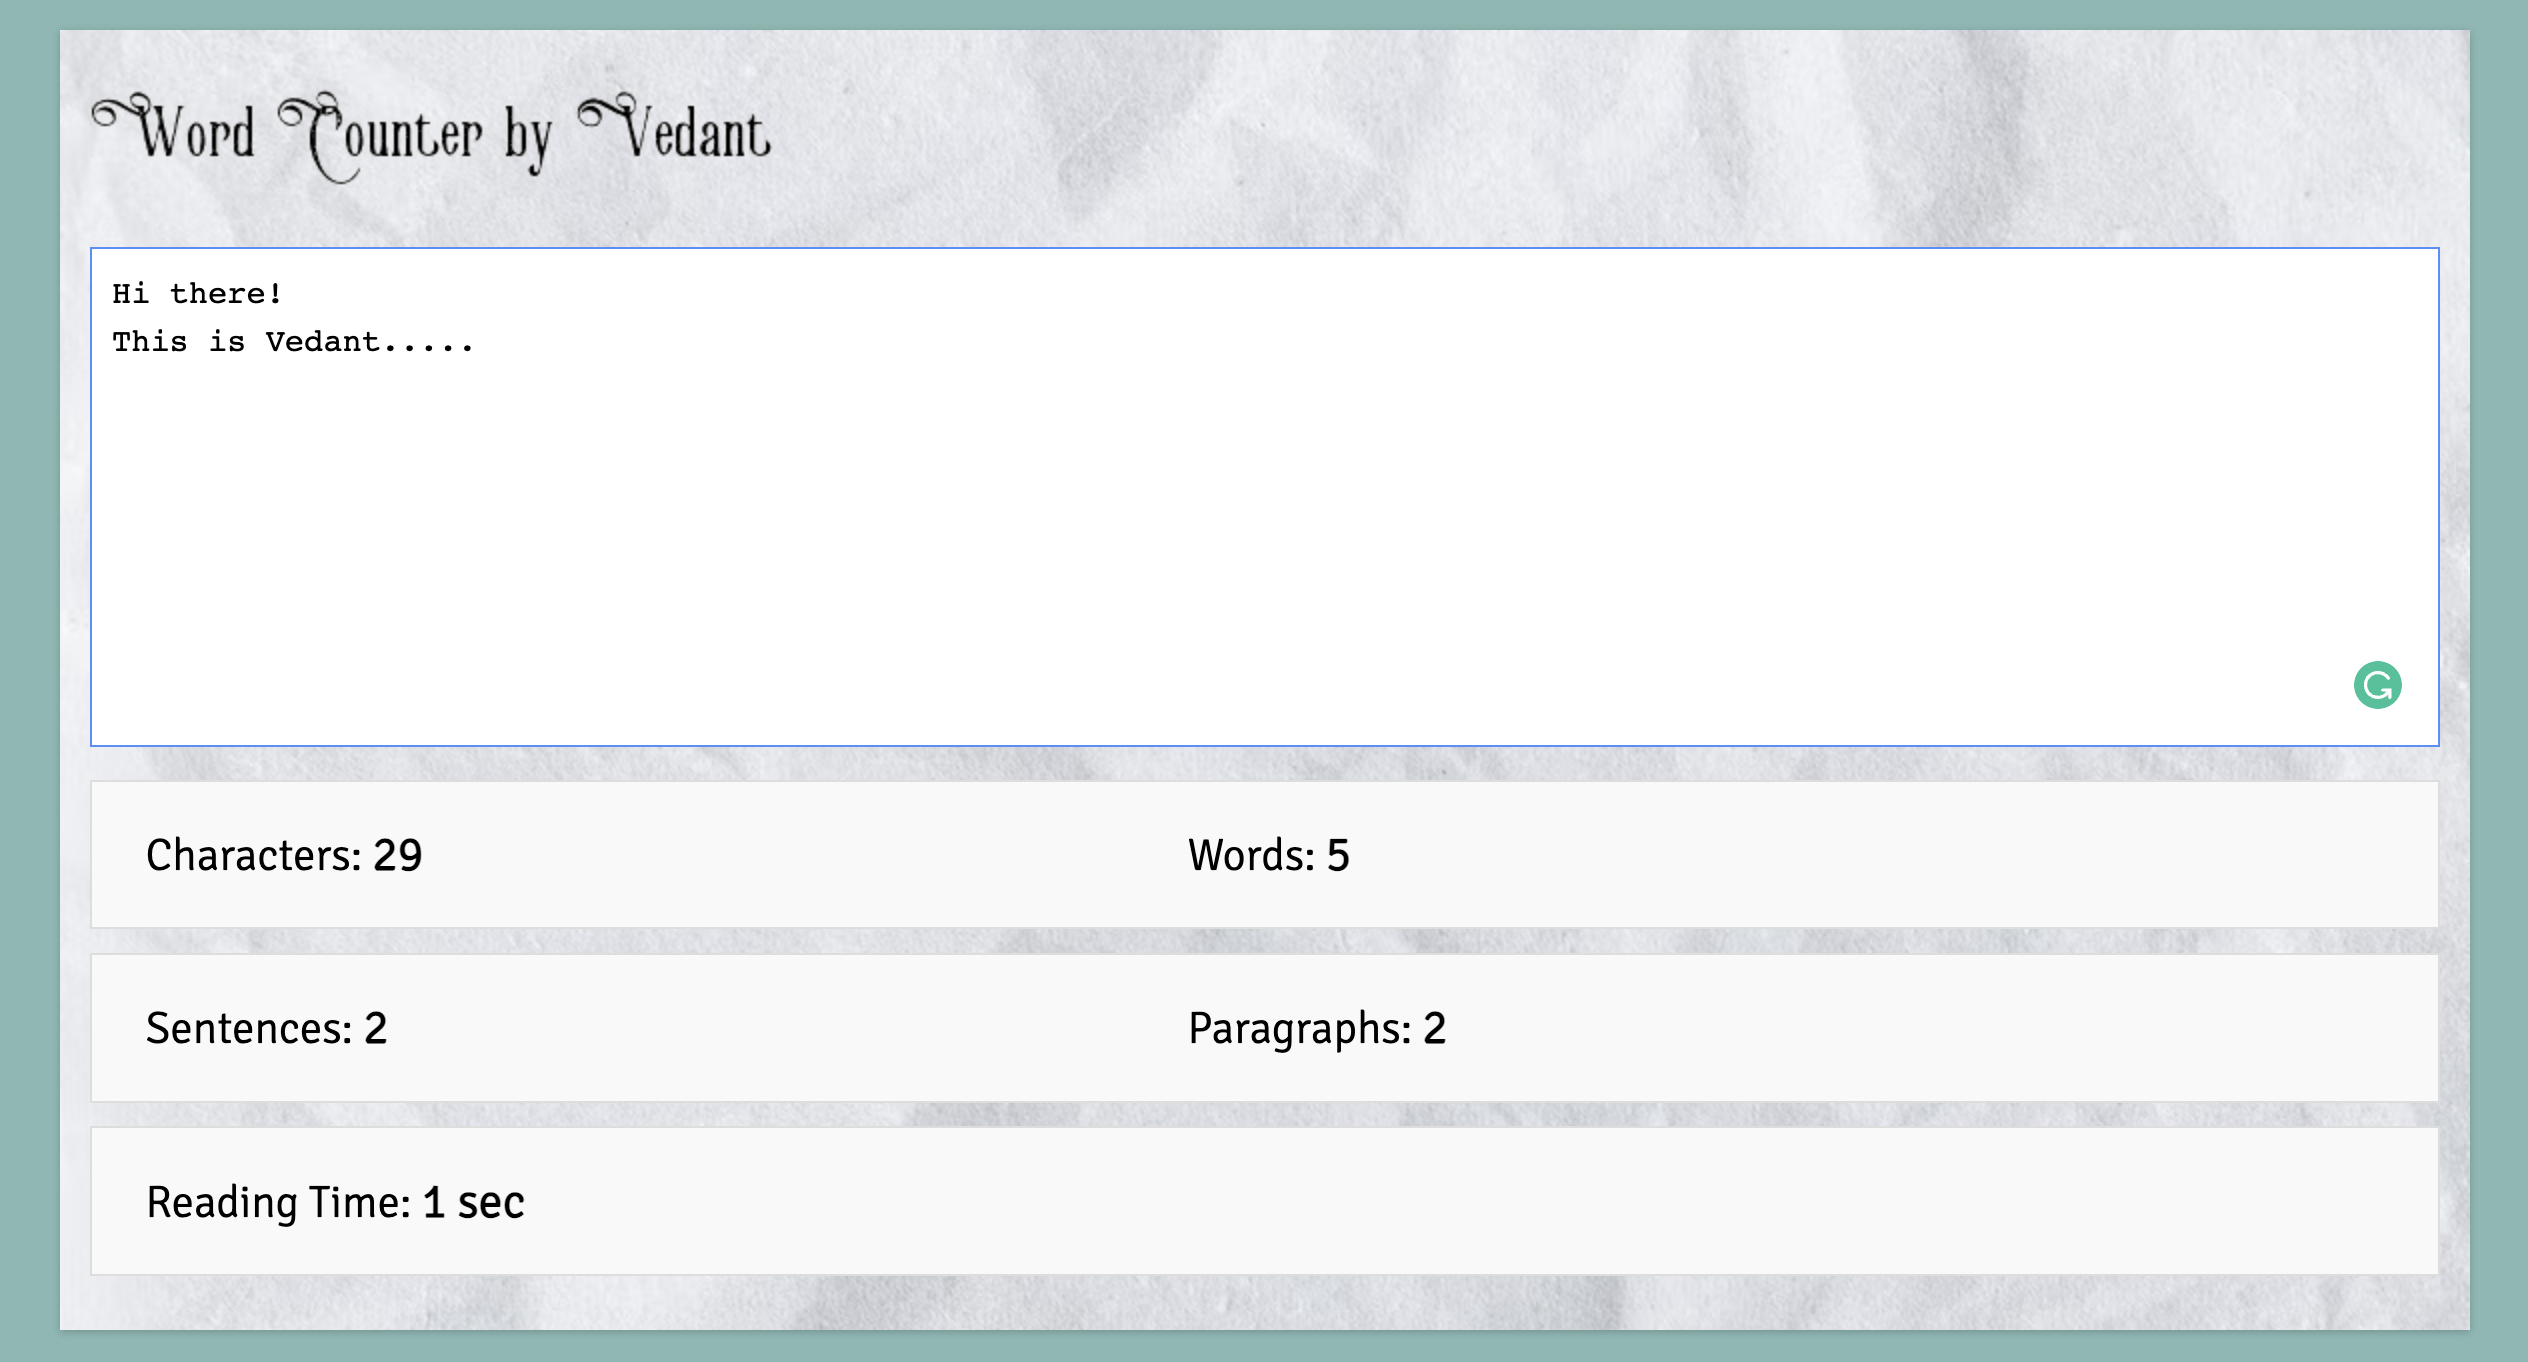
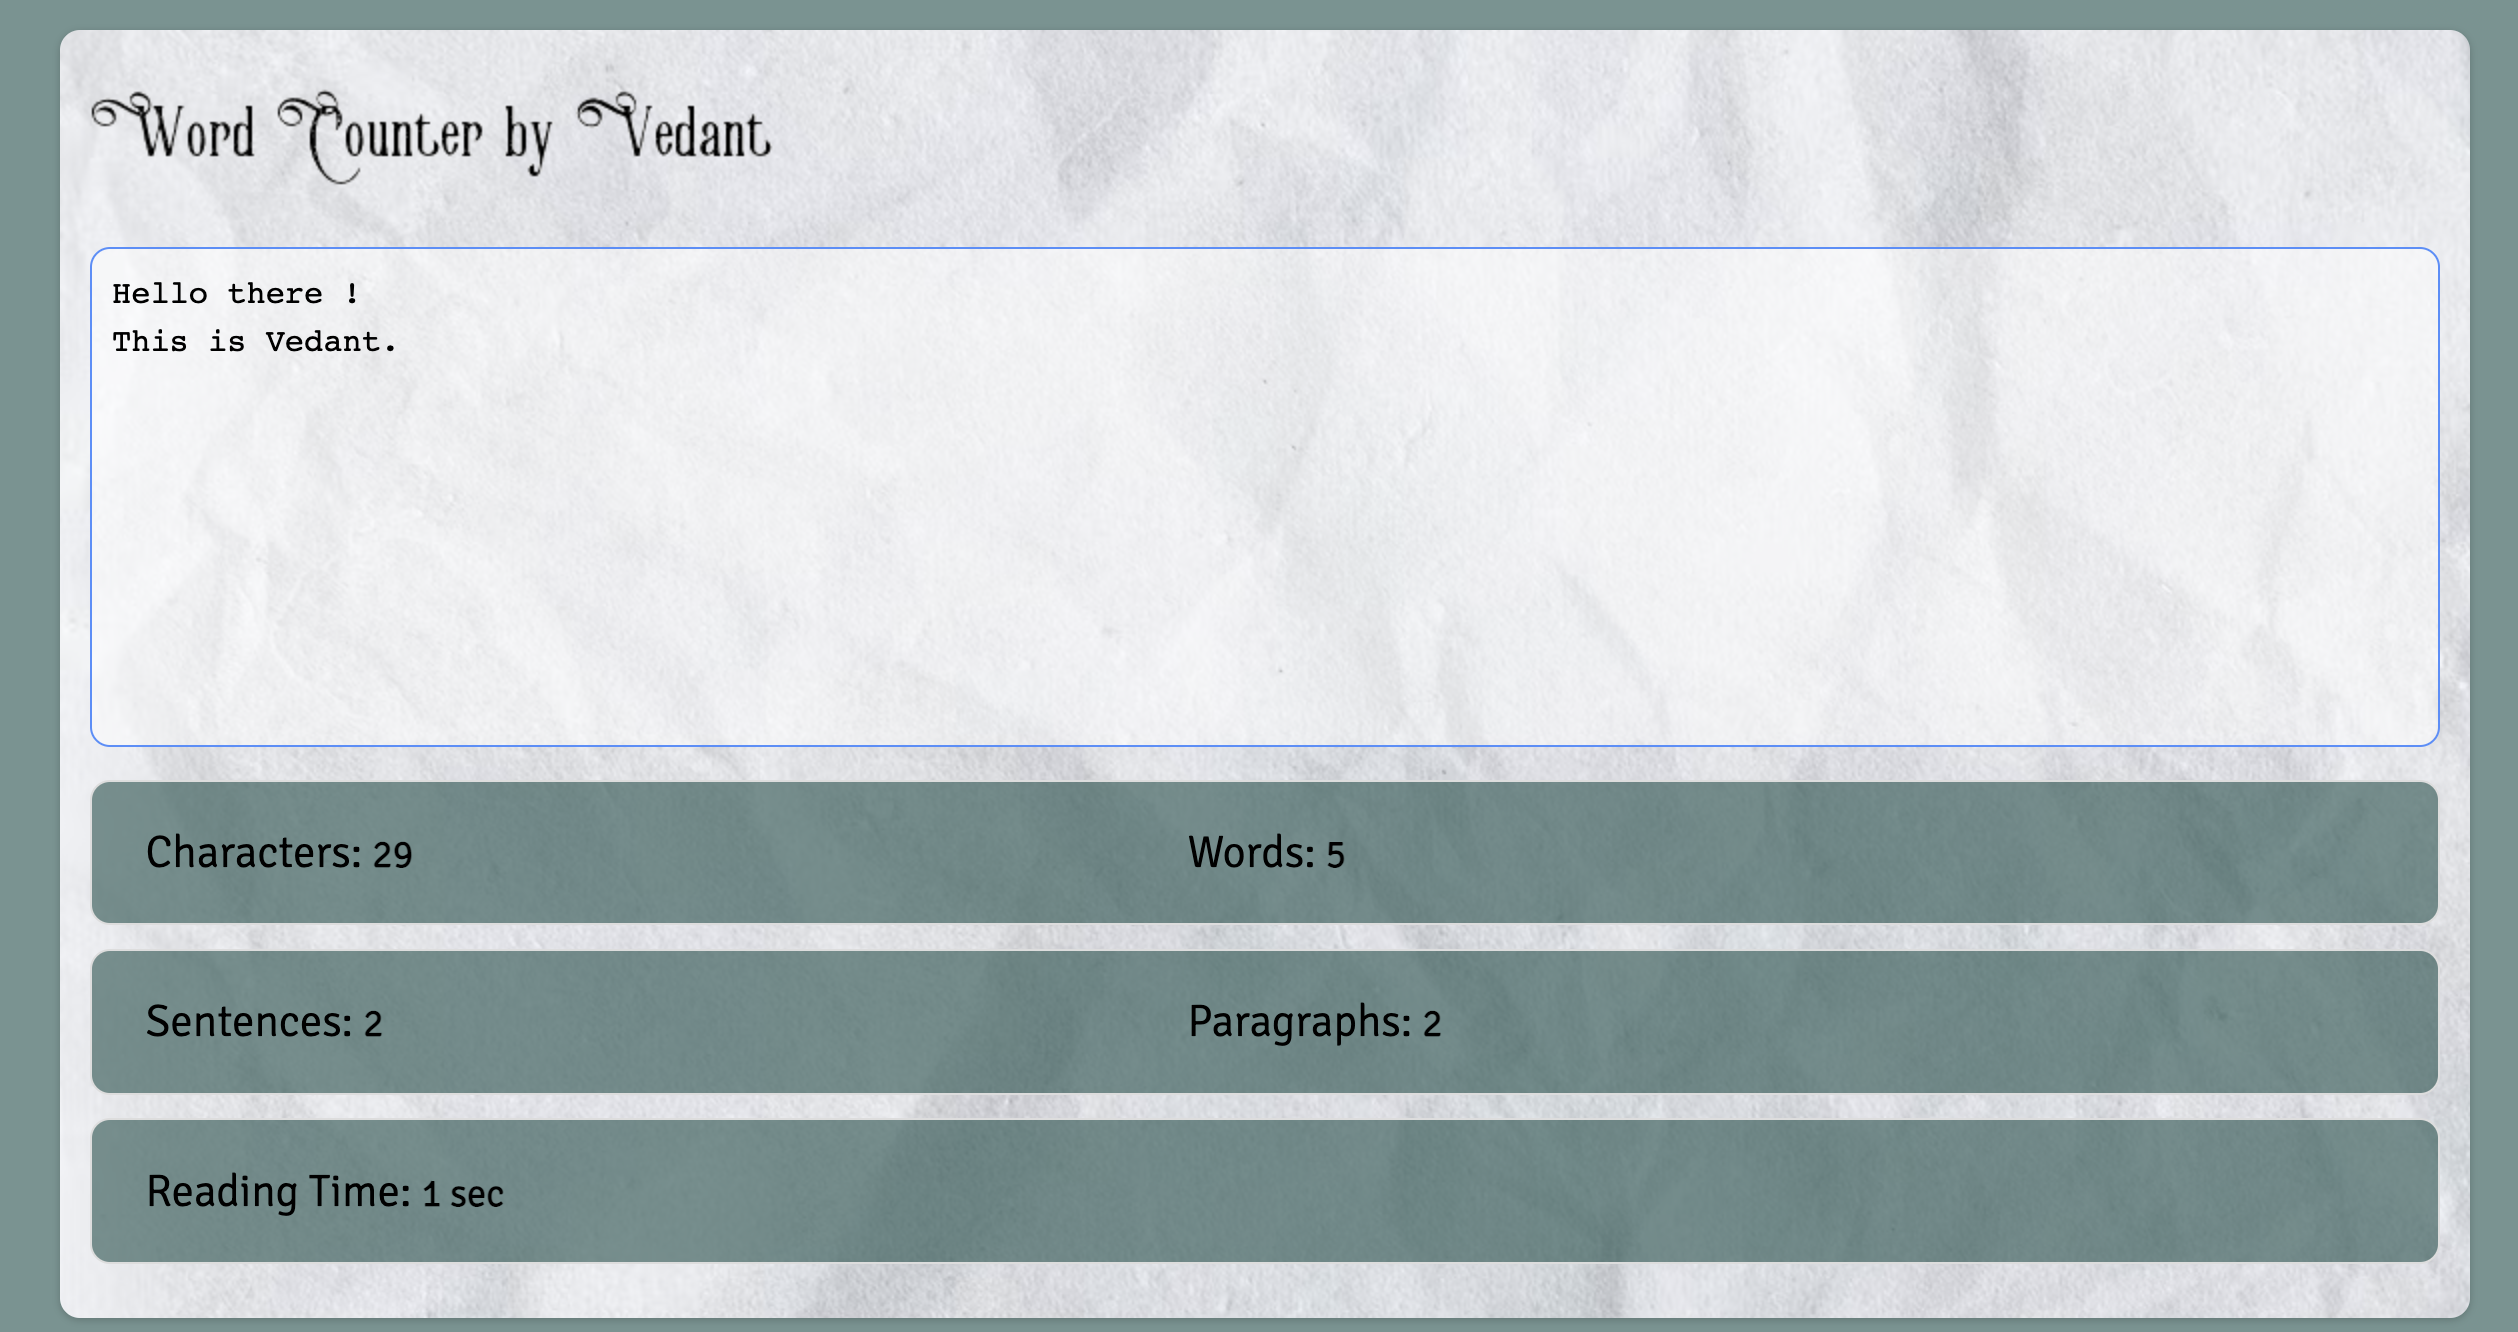
added typing it project

diff --git a/src/components/work/Data.jsx b/src/components/work/Data.jsx
@@ -1,13 +1,10 @@
 import Work1 from "../../assets/pr_food.png"
 import Work2 from "../../assets/pr_travel.png"
 import Work3 from "../../assets/pr_calculator.png"
-import Work4 from "../../assets/pr_lottery.jpg"
+import Work4 from "../../assets/pr_type.png"
+import Work6 from "../../assets/pr_lottery.jpg"
 import Work5 from "../../assets/pr_word.png"
-import Work6 from "../../assets/pr_webpro.png"
-import Work7 from "../../assets/pr_form.png"
-
-
-
+import Work7 from "../../assets/pr_webpro.png"
 
 export const projectData = 
 [
@@ -41,11 +38,11 @@ export const projectData =
       {
         id: 4,
         image: Work4,
-        title: " Lottery System |  Blockchain ",
-        category: "app",
-        tech : " Solidity | React | Typescript",
-        link : "https://github.com/vedantpatil25/Blockchain-Lottery-System",
-        github : "https://github.com/vedantpatil25/Blockchain-Lottery-System",
+        title: "TypingiT - Practice Typing",
+        category: "web",
+        tech : " HTML | CSS | Javascript",
+        link : "https://typingt-by-vedant.netlify.app/",
+        github : "https://github.com/vedantpatil25/TypingiT-Typing-Game",
       },
       {
         id: 5,
@@ -59,20 +56,20 @@ export const projectData =
       {
         id: 6,
         image: Work6,
+        title: " Lottery System |  Blockchain ",
+        category: "app",
+        tech : " Solidity | React | Typescript",
+        link : "https://github.com/vedantpatil25/Blockchain-Lottery-System",
+        github : "https://github.com/vedantpatil25/Blockchain-Lottery-System",
+      },
+      {
+        id: 7,
+        image: Work7,
         title: "Courses Static Website",
         category: "web",
         tech : " HTML | CSS ",
         link : "https://webpro-courses.netlify.app/",
         github : "https://github.com/vedantpatil25/webPro-courses-static-website",
-      },
-      {
-        id: 7,
-        image: Work7,
-        title: "Survey Form",
-        category: "web",
-        tech : " HTML | CSS ",
-        link : "https://form-by-vedant.netlify.app",
-        github : "https://github.com/vedantpatil25/Form",
       },
 ]
 
@@ -94,3 +91,5 @@ export const projectsNav =
         name : "design"
     },
 ]
+
+
